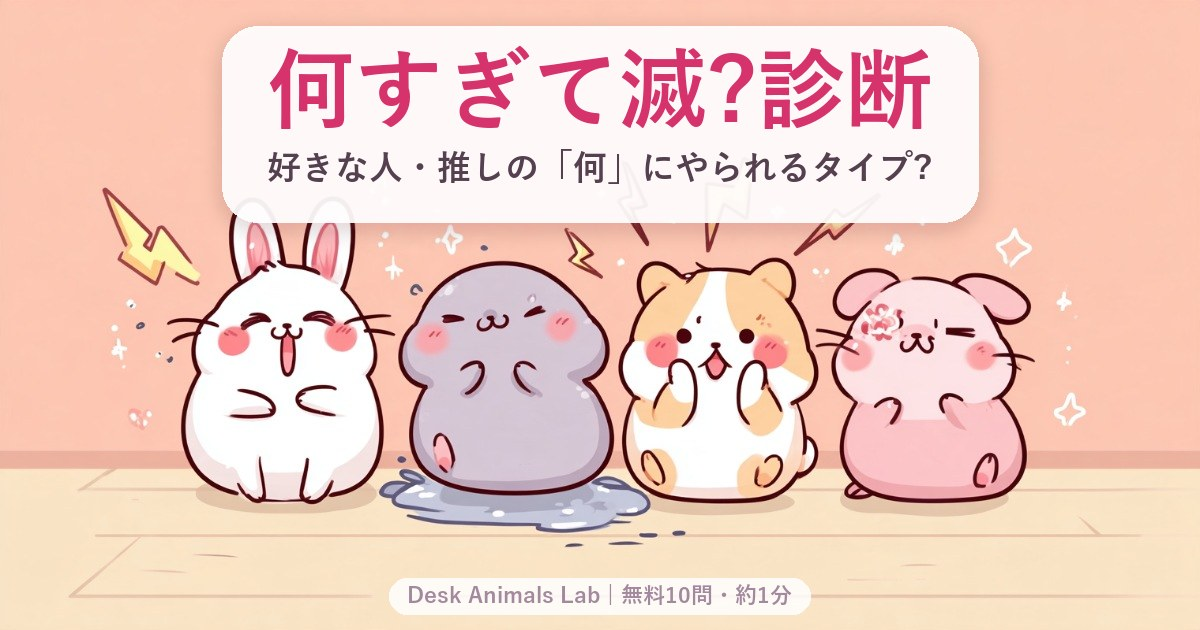
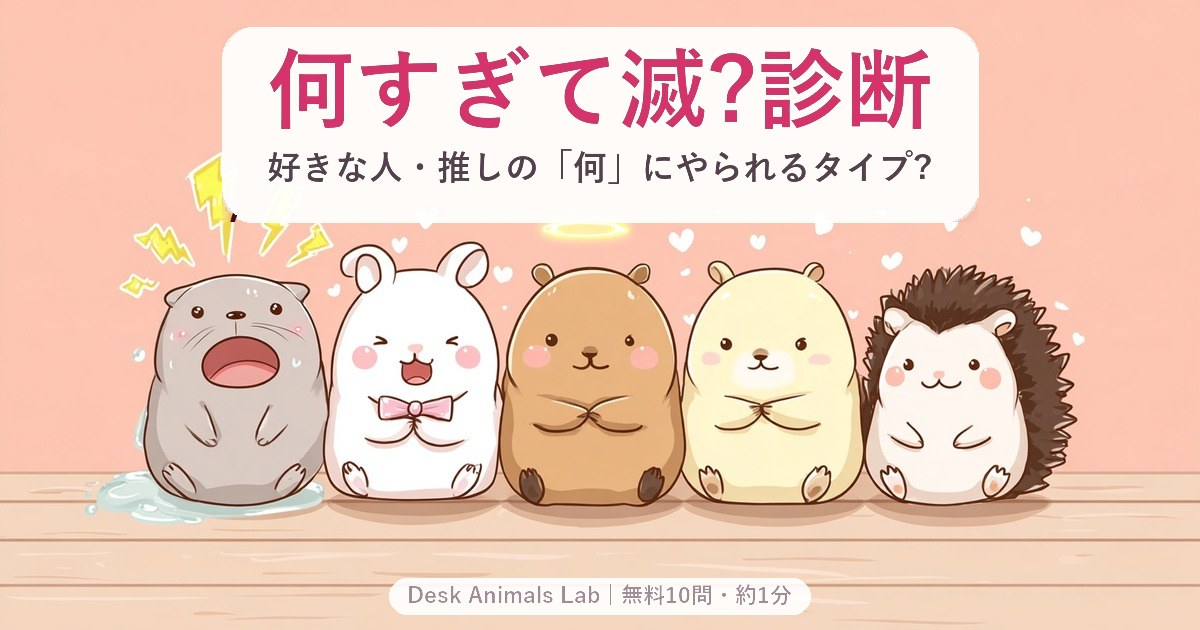
単発診断4本のバナーをタイプ別イラストに合わせて作り直し、何すぎて滅?のOGPを差し替え
バナーの動物を結果画面のタイプ別イラストと同じ顔ぶれにした(Midjourneyで再生成)。
何すぎて滅?診断は旧画像のキャラの目が崩れていたため、OGP画像も新しい背景で作り直した。

diff --git a/metsu.html b/metsu.html
@@ -14,7 +14,7 @@
 <meta property="og:locale" content="ja_JP">
 <meta property="og:url" content="https://deskanimals114510-ai.github.io/personality-type-quiz/metsu.html">
 <link rel="canonical" href="https://deskanimals114510-ai.github.io/personality-type-quiz/metsu.html">
-<meta property="og:image" content="https://deskanimals114510-ai.github.io/personality-type-quiz/og-metsu.jpg">
+<meta property="og:image" content="https://deskanimals114510-ai.github.io/personality-type-quiz/og-metsu.jpg?v=2">
 <meta property="og:image:width" content="1200">
 <meta property="og:image:height" content="630">
 <meta property="og:image:alt" content="何すぎて滅?診断 - 悶絶する動物キャラたち">
@@ -23,7 +23,7 @@
 <meta name="twitter:card" content="summary_large_image">
 <meta name="twitter:title" content="何すぎて滅?診断 - あなたは何すぎて滅?">
 <meta name="twitter:description" content="10問1分の無料「何すぎて滅?診断」。好きな人や推しの何に一番滅ぼされるかを診断。ギャップすぎて滅・優しすぎて滅・かわいすぎて滅・尊すぎて滅、激レアの全部すぎて滅も。滅度(%)と、滅トークが盛り上がる相性タイプもわかります。">
-<meta name="twitter:image" content="https://deskanimals114510-ai.github.io/personality-type-quiz/og-metsu.jpg">
+<meta name="twitter:image" content="https://deskanimals114510-ai.github.io/personality-type-quiz/og-metsu.jpg?v=2">
 <meta name="twitter:image:alt" content="何すぎて滅?診断 - 悶絶する動物キャラたち">
 
 <link rel="icon" href="favicon.ico">
